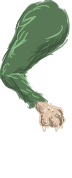
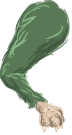
FIXED location of mobview

diff --git a/src/main/java/combat/CombatView.java b/src/main/java/combat/CombatView.java
@@ -1,13 +1,9 @@
 package combat;
 
-import data.framework.MobController;
+import combat.mobview.MobView;
+import combat.mobview.MobViewBuilder;
 import data.framework.PartType;
-import org.newdawn.slick.Color;
-import org.newdawn.slick.GameContainer;
-import org.newdawn.slick.Graphics;
-import org.newdawn.slick.Image;
-import org.newdawn.slick.gui.AbstractComponent;
-import org.newdawn.slick.gui.ComponentListener;
+import org.newdawn.slick.*;
 import upgrade.bodyparts.BodyConcreteBodyPart;
 import util.buttons.AttackButton;
 import util.MyFont;
@@ -23,8 +19,7 @@ public class CombatView {
     private MobView mobView;
 
     public CombatView(CombatController ctrl, PlayerMobController mobController,
-                      Attack at1, Attack at2, Attack at3, Attack at4, Attack at5, Attack at6)
-    {
+                      Attack at1, Attack at2, Attack at3, Attack at4, Attack at5, Attack at6) throws SlickException {
         att1_button = new AttackButton(at1, 150, 700);
         att2_button = new AttackButton(at2, 400, 700);
         att3_button = new AttackButton(at3, 650, 700);
@@ -35,12 +30,15 @@ public class CombatView {
         this.ctrl = ctrl;
         background = ResourceLoader.getImage("battleBackground");
 
-        mobView = new MobView((BodyConcreteBodyPart) ctrl.getMob().getParts().get(PartType.BODY), 1300, 510);
+
+        BodyConcreteBodyPart body = (BodyConcreteBodyPart) ctrl.getMob().getParts().get(PartType.BODY);
         ctrl.getMob().getParts().remove(PartType.BODY);
 
+        MobViewBuilder mobViewBuilder = new MobViewBuilder(body, 1300, 510);
         for(PartType type : ctrl.getMob().getParts().keySet()){
-            mobView.addPart(type, ctrl.getMob().getParts().get(type));
+            mobViewBuilder.addPart(type, ctrl.getMob().getParts().get(type));
         }
+        mobView = mobViewBuilder.finalise();
     }
 
     public void init(GameContainer gc){
@@ -63,8 +61,7 @@ public class CombatView {
         att6_button.addListener(player);
     }
 
-    public void render(GameContainer gc, Graphics g)
-    {
+    public void render(GameContainer gc, Graphics g) throws SlickException {
         g.drawImage(background, 0, 0);
         try {
             g.setFont(MyFont.createFont(12));
@@ -82,6 +79,7 @@ public class CombatView {
         renderMobHealthBar(g);
         renderSidekickHealthBar(g);
         mobView.render(gc, g);
+        //g.drawImage(mobImage, 1300, 510);
     }
 
     private void renderMobHealthBar(Graphics g)

diff --git a/src/main/java/combat/mobview/MobView.java b/src/main/java/combat/mobview/MobView.java
@@ -1,0 +1,52 @@
+package combat.mobview;
+
+import data.framework.BodyPart;
+import data.framework.PartType;
+import org.newdawn.slick.GameContainer;
+import org.newdawn.slick.Graphics;
+import org.newdawn.slick.SlickException;
+import org.newdawn.slick.geom.Rectangle;
+import util.Point;
+
+import java.util.Map;
+
+public class MobView {
+    private float x, y;
+    private Map<BodyPart, Point> offsets;
+    private Map<PartType, BodyPart> parts;
+
+    MobView(float x, float y, Map<BodyPart, Point> offsets, Map<PartType, BodyPart> parts){
+        this.offsets = offsets;
+        this.parts = parts;
+
+        this.x = x;
+        this.y = y;
+    }
+
+    public Rectangle getBoundingRectangle(){
+        float maxX=0, minX=0, maxY=0, minY=0;
+        for(BodyPart part : parts.values()){
+            if(offsets.get(part).x + part.getWidth() > maxX)
+                maxX = offsets.get(part).x + part.getWidth();
+            if(offsets.get(part).y + part.getHeight() > maxY)
+                maxY = offsets.get(part).y + part.getHeight();
+
+            if(offsets.get(part).x < minX)
+                minX = offsets.get(part).x;
+            if(offsets.get(part).y < minY)
+                minY = offsets.get(part).y;
+        }
+        return new Rectangle(x + minX,y + minY, maxX - minX, maxY - minY);
+    }
+
+    public void render(GameContainer gc, Graphics g) throws SlickException {
+        for(PartType type : parts.keySet()){
+            BodyPart bp = parts.get(type);
+            g.drawImage(bp.getImage().getFlippedCopy(true, false),
+                    x - offsets.get(bp).x - bp.getImage().getWidth(), y + offsets.get(bp).y);
+            //g.drawImage(bp.getImage(),x + offsets.get(bp).x, y + offsets.get(bp).y);
+        }
+        g.drawOval(x, y, 5, 5);
+        g.draw(getBoundingRectangle());
+    }
+}

diff --git a/src/main/java/combat/mobview/MobViewBuilder.java b/src/main/java/combat/mobview/MobViewBuilder.java
@@ -1,0 +1,54 @@
+package combat.mobview;
+
+import data.framework.BodyPart;
+import data.framework.PartType;
+import org.newdawn.slick.GameContainer;
+import org.newdawn.slick.Graphics;
+import org.newdawn.slick.SlickException;
+import org.newdawn.slick.geom.Rectangle;
+import upgrade.bodyparts.BodyConcreteBodyPart;
+import util.Point;
+
+import java.util.HashMap;
+import java.util.Map;
+import java.util.TreeMap;
+
+public class MobViewBuilder {
+    private float x, y, overallOffsetX, overallOffsetY;
+    private Map<BodyPart, Point> offsets;
+    private Map<PartType, BodyPart> parts;
+    private BodyConcreteBodyPart body;
+
+    public MobViewBuilder(BodyConcreteBodyPart body, int x, int y){
+        offsets = new HashMap<>();
+        parts = new TreeMap<>();
+
+        this.x = x;
+        this.y = y;
+
+        overallOffsetX = 0;
+        overallOffsetY = 0;
+
+        this.body = body;
+        parts.put(PartType.BODY, body);
+        offsets.put(body, new Point(0, 0));
+    }
+
+    public void addPart(PartType type, BodyPart part){
+        parts.put(type, part);
+
+        float newX = body.getAttachPoints().get(type).x - parts.get(type).getAttachPoints().get(PartType.BODY).x;
+        float newY = body.getAttachPoints().get(type).y - parts.get(type).getAttachPoints().get(PartType.BODY).y;
+
+        Point newPoint = new Point(newX, newY);
+        offsets.put(parts.get(type), newPoint);
+
+        overallOffsetX = Math.min(newX, overallOffsetX);
+        overallOffsetY = Math.min(newY, overallOffsetY);
+    }
+
+    public MobView finalise(){
+        offsets.replaceAll((b, v) -> new Point(offsets.get(b).x - overallOffsetX, offsets.get(b).y - overallOffsetY));
+        return new MobView(x, y, offsets, parts);
+    }
+}

diff --git a/src/main/java/combat/MobData.java b/src/main/java/combat/MobData.java
@@ -25,20 +25,6 @@ public class MobData {
                 return makeDog(level);
             case "rat":
                 return makeRat(level);
-                /*
-            case "bunny":
-                return makeBunny(level);
-            case "penguin":
-                return makePenguin(level);
-            case  "lion":
-                return makeLion(level);
-            case  "elephant":
-                return makeElephant(level);
-            case "beaver":
-                return makeBeaver(level);
-            case "ostrich":
-                return makeOstrich(level);
-                */
             case "Dr.Moreau":
                 Map<PartType, BodyPart> parts = new HashMap<>();
                 BodyPart body = new BodyConcreteBodyPart("Dr.Moreau", 100, null, 100);

diff --git a/src/main/java/combat/CombatController.java b/src/main/java/combat/CombatController.java
@@ -81,8 +81,7 @@ public class CombatController extends Screen {
         return false;
     }
 
-    public void render(GameContainer gc, StateBasedGame sbg, Graphics g)
-    {
+    public void render(GameContainer gc, StateBasedGame sbg, Graphics g) throws SlickException {
         view.render(gc, g);
     }
 

diff --git a/src/main/java/data/framework/PartType.java b/src/main/java/data/framework/PartType.java
@@ -1,5 +1,5 @@
 package data.framework;
 
 public enum PartType {
-    LEFT_ARM, LEFT_LEG, BODY, RIGHT_ARM, RIGHT_LEG, TAIL, HEAD
+    LEFT_ARM, LEFT_LEG, BODY, RIGHT_ARM, RIGHT_LEG, HEAD, TAIL
 }
